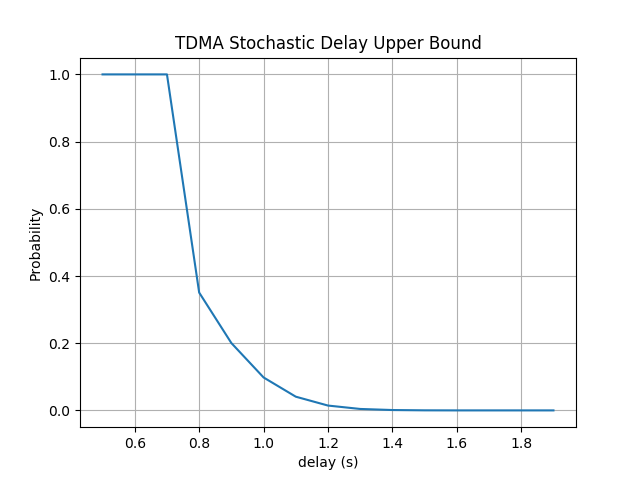
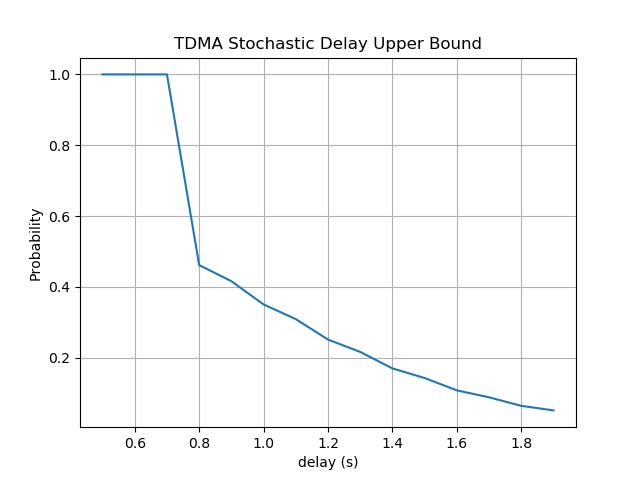
Correct error in tdma

diff --git a/tdma_delay.py b/tdma_delay.py
@@ -38,7 +38,7 @@ def tdma_delay_bound(arrival_rate, link_rate, portion, max_packet_length):
         for i in range(len(link_rate) - 1):
             delay_T += max_packet_length / (link_rate[i] * portion[i])
 
-        r = min([(i+1) * (j+1) for i, j in zip(link_rate, portion)])      
+        r = min([i * j for i, j in zip(link_rate, portion)])      
         if x > delay_T:
             y = r * (x - delay_T)
             for i in range(0, math.ceil(y + arrival_rate * t) - 1):
